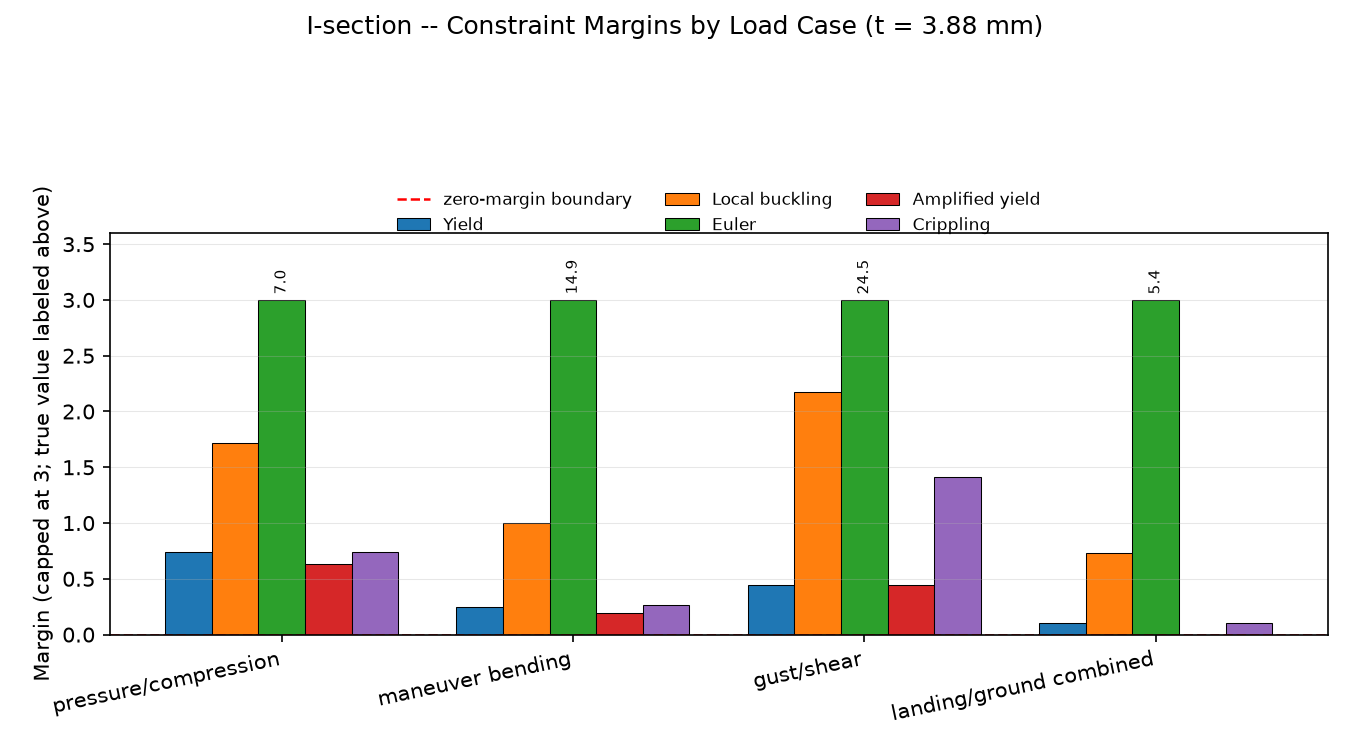
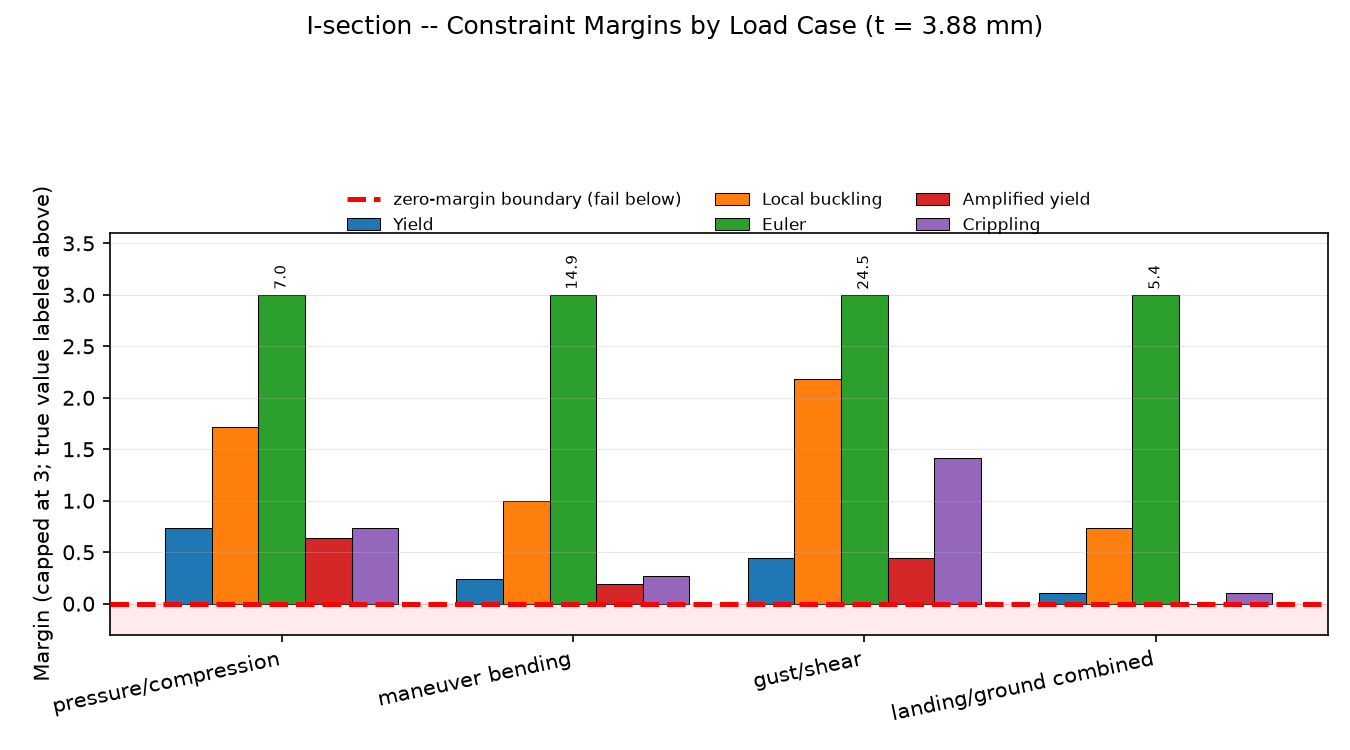
style: make Figure 3 zero-margin boundary more visually prominent
Presentation-only refinement per user request:
- Figure 3 (constraint margins by load case): thickened the zero-margin
  boundary line, gave it headroom below the bars, and shaded the
  infeasible (margin < 0) region below it, so the sizing boundary is
  immediately obvious. No margin values, the Euler-capping convention,
  or any other engineering content changed.
- Figure 5 reviewed and confirmed already correctly framed: alpha=0.3 is
  labeled weak/illustrative-only and outside the canonical study, and no
  canonical (alpha=1.2) result implies crippling governs -- left
  unchanged.
- Figures 1, 2, and 4 are byte-identical (not regenerated with any
  change); full 393-test suite and all example scripts rerun and pass.

diff --git a/examples/generate_figures.py b/examples/generate_figures.py
@@ -188,8 +188,15 @@ def figure_3_constraint_margins(best):
             if v > y_cap:
                 ax.text(bar.get_x() + bar.get_width() / 2, y_cap + 0.05, f"{v:.1f}", ha="center", va="bottom", fontsize=7, rotation=90)
 
-    ax.axhline(0.0, color="red", linewidth=1.2, linestyle="--", label="zero-margin boundary")
-    ax.set_ylim(top=y_cap + 0.6)
+    # Give a little headroom below zero so the zero-margin boundary is a
+    # clearly visible, standalone line rather than coinciding with the
+    # bottom axis spine -- shade the infeasible (margin < 0) region below
+    # it for extra visual emphasis. No margin values or the Euler-capping
+    # convention above are changed by this presentation-only styling.
+    y_bottom = -0.3
+    ax.axhspan(y_bottom, 0.0, color="red", alpha=0.08, zorder=0)
+    ax.axhline(0.0, color="red", linewidth=2.4, linestyle="--", zorder=10, label="zero-margin boundary (fail below)")
+    ax.set_ylim(bottom=y_bottom, top=y_cap + 0.6)
     ax.set_xticks(list(x))
     ax.set_xticklabels(case_names, rotation=12, ha="right")
     ax.set_ylabel(f"Margin (capped at {y_cap:.0f}; true value labeled above)")
